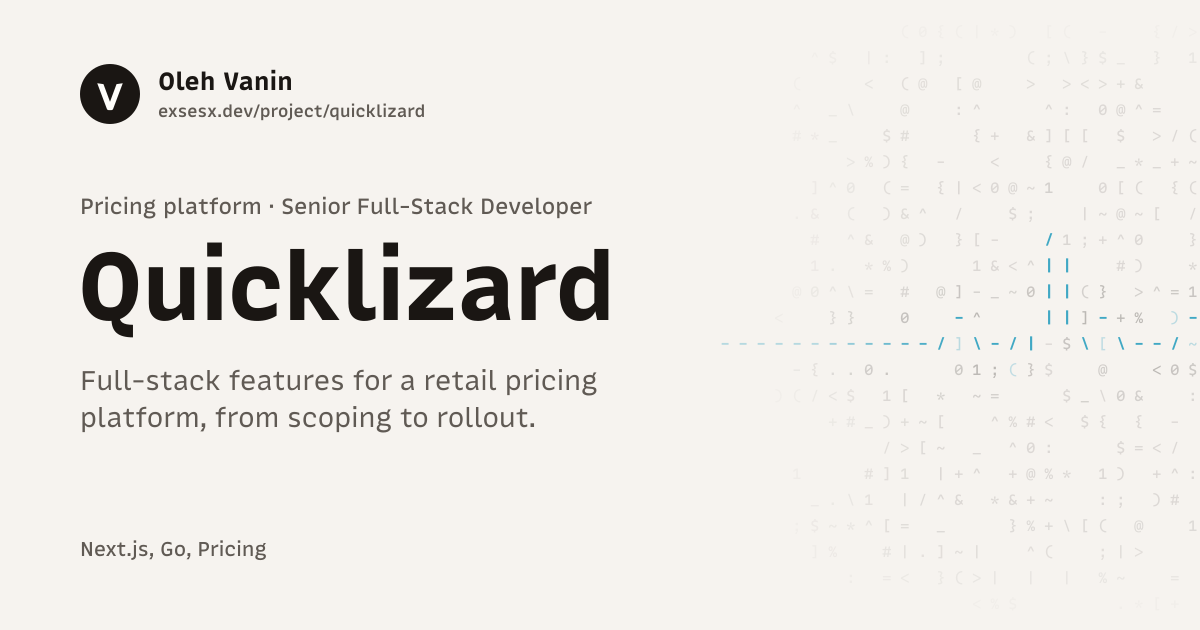
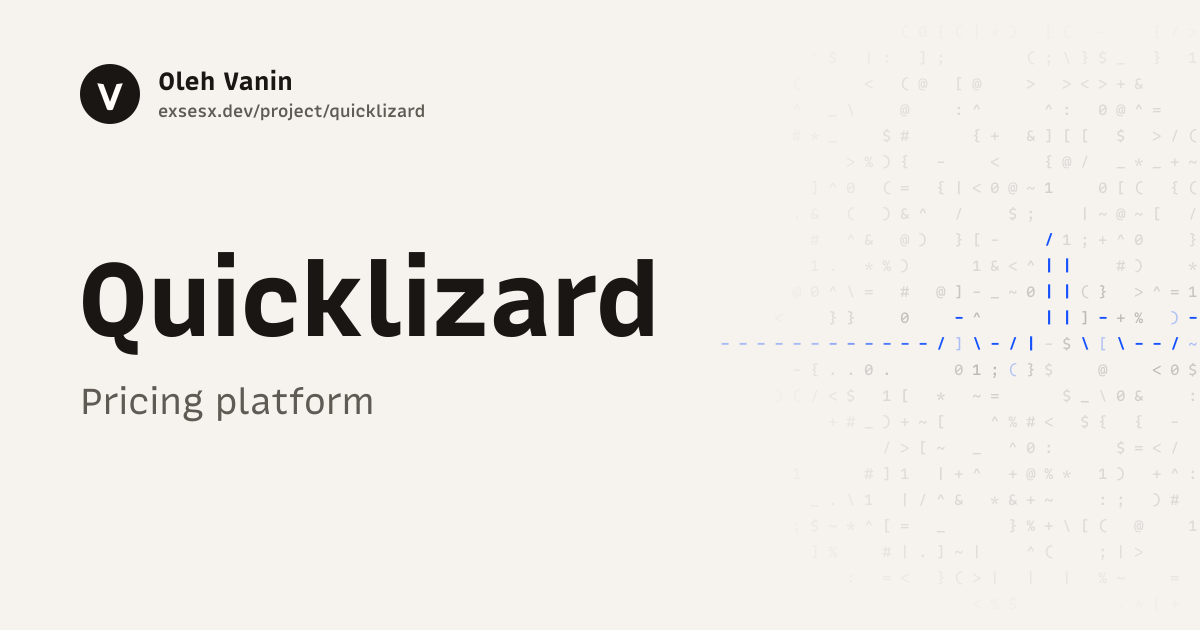
feat: trim project social cards to the name and product
Project cards drop the role eyebrow, the headline and the tag line
and keep the name with one short product line, so they still read at
thumbnail size. The trace uses the site cobalt on every card instead
of per-client accents, and the projects card drops its client roster.
Bumps socialImageVersion to 8.

Changed region(s): [[0.0617, 0.3016, 0.555, 0.573], [0.0617, 0.573, 0.4933, 0.6937], [0.0617, 0.8444, 0.2158, 0.9048]]

diff --git a/scripts/generate-social-images.ts b/scripts/generate-social-images.ts
@@ -24,16 +24,6 @@ const colors = {
   card: "#fefdfa",
 };
 
-const accentColors: Record<Project["accent"], string> = {
-  amber: "#845cf6",
-  controlup: "#3887e8",
-  mint: "#3a80e0",
-  quicklizard: "#40a8c4",
-  rose: "#e85068",
-  steel: "#6096c4",
-  violet: "#9660d6",
-};
-
 const marginX = 80;
 const textColumnWidth = 600;
 
@@ -300,7 +290,6 @@ function baseSvg(inner: string) {
     .eyebrow { font-family: MonoLisaText, ui-sans-serif, system-ui, sans-serif; font-weight: 500; fill: ${colors.muted}; }
     .display { font-family: MonoLisaText, ui-sans-serif, system-ui, sans-serif; font-weight: 800; fill: ${colors.foreground}; letter-spacing: -0.02em; }
     .lede { font-family: MonoLisaText, ui-sans-serif, system-ui, sans-serif; font-weight: 400; fill: ${colors.muted}; }
-    .tags { font-family: MonoLisaText, ui-sans-serif, system-ui, sans-serif; font-weight: 500; fill: ${colors.muted}; }
     .field { font: 500 15px MonoLisaCode, ui-monospace, monospace; }
     .field-trace { font: 700 16px MonoLisaCode, ui-monospace, monospace; }
   </style>
@@ -347,56 +336,46 @@ function homeSvg() {
 }
 
 function projectsSvg() {
-  const names = projects.map(project => project.name).join(", ");
   const lede = fittedLines("From IT operations to restaurant kitchens, and my part in each.", {
     maxWidth: textColumnWidth,
     maxLines: 2,
     idealSize: 28,
     minSize: 22,
   });
-  const list = fittedLines(names, { maxWidth: 1040, maxLines: 1, idealSize: 20, minSize: 15 });
 
   return baseSvg(`
     ${asciiField({ seed: 3, startX: 780, baselineY: 330, accent: colors.accent, beatOffset: 6 })}
     ${brand(`${SITE_PROFILE.domain}/projects`)}
     ${textBlock(["Client work"], { x: marginX - 4, y: 320, fontSize: 112, lineHeight: 0, className: "display" })}
     ${textBlock(lede.lines, { x: marginX, y: 394, fontSize: lede.fontSize, lineHeight: 38, className: "lede" })}
-    ${textBlock(list.lines, { x: marginX, y: 556, fontSize: list.fontSize, lineHeight: 0, className: "tags" })}
   `);
 }
 
+/*
+ * A project card holds what reads at thumbnail size: the name and one short line saying what the
+ * product is. The trace is the site's cobalt on every card; client colors stay in client media.
+ */
 function projectSvg(project: Project) {
-  const accent = accentColors[project.accent];
   const title = fittedLines(project.name, {
     maxWidth: textColumnWidth,
     maxLines: 1,
-    idealSize: 96,
-    minSize: 56,
+    idealSize: 104,
+    minSize: 60,
     measureScale: 1.04,
   });
-  const headline = fittedLines(project.detail.headline, {
-    maxWidth: textColumnWidth,
-    maxLines: 3,
-    idealSize: 27,
-    minSize: 21,
-  });
-  const eyebrow = fittedLines(`${project.period} · ${project.role}`, {
+  const product = fittedLines(project.period, {
     maxWidth: textColumnWidth,
     maxLines: 1,
-    idealSize: 22,
-    minSize: 16,
-    measureScale: 1.04,
+    idealSize: 36,
+    minSize: 28,
   });
-  // Keep the cap height a fixed distance under the eyebrow when long names shrink.
-  const titleY = Math.round(250 + title.fontSize * 0.73);
+  const titleY = 336;
 
   return baseSvg(`
-    ${asciiField({ seed: seedFrom(project.slug), startX: 720, baselineY: 344, accent, beatOffset: seedFrom(project.slug) % 20 })}
+    ${asciiField({ seed: seedFrom(project.slug), startX: 720, baselineY: 344, accent: colors.accent, beatOffset: seedFrom(project.slug) % 20 })}
     ${brand(`${SITE_PROFILE.domain}/project/${project.slug}`)}
-    ${textBlock(eyebrow.lines, { x: marginX, y: 214, fontSize: eyebrow.fontSize, lineHeight: 0, className: "eyebrow" })}
     ${textBlock(title.lines, { x: marginX - 3, y: titleY, fontSize: title.fontSize, lineHeight: 0, className: "display" })}
-    ${textBlock(headline.lines, { x: marginX, y: titleY + 70, fontSize: headline.fontSize, lineHeight: 37, className: "lede" })}
-    ${textBlock([project.tags.slice(0, 3).join(", ")], { x: marginX, y: 556, fontSize: 20, lineHeight: 0, className: "tags" })}
+    ${textBlock(product.lines, { x: marginX, y: titleY + 78, fontSize: product.fontSize, lineHeight: 0, className: "lede" })}
   `);
 }
 

diff --git a/src/lib/metadata.ts b/src/lib/metadata.ts
@@ -9,7 +9,7 @@ export const siteName = SITE_PROFILE.domain;
 const socialPreviewPath = "/images/social-preview.png";
 // Bump to force social platforms (Telegram, X, LinkedIn, Slack) to re-scrape
 // cached previews — they cache og:image by URL.
-const socialImageVersion = "7";
+const socialImageVersion = "8";
 const previewDeploymentUrl = process.env.VERCEL_BRANCH_URL ?? process.env.VERCEL_URL;
 const socialImageOrigin =
   process.env.VERCEL_ENV === "preview" && previewDeploymentUrl ? `https://${previewDeploymentUrl}` : siteUrl;
